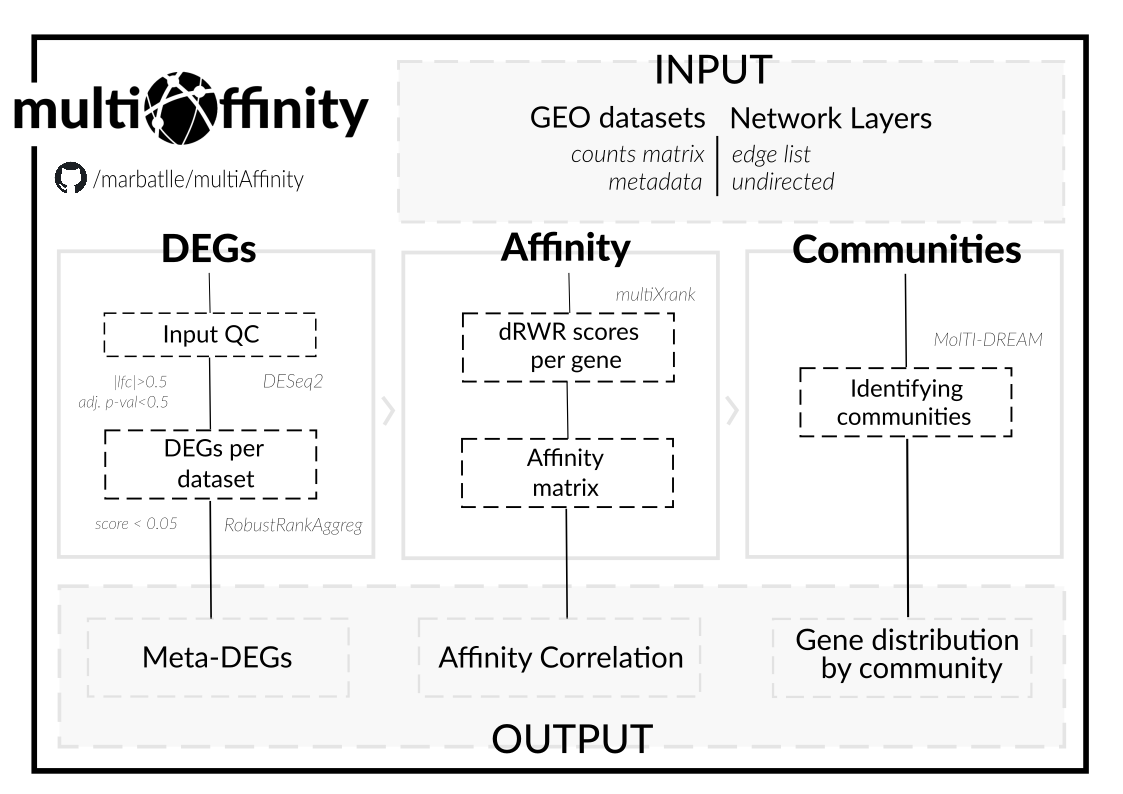
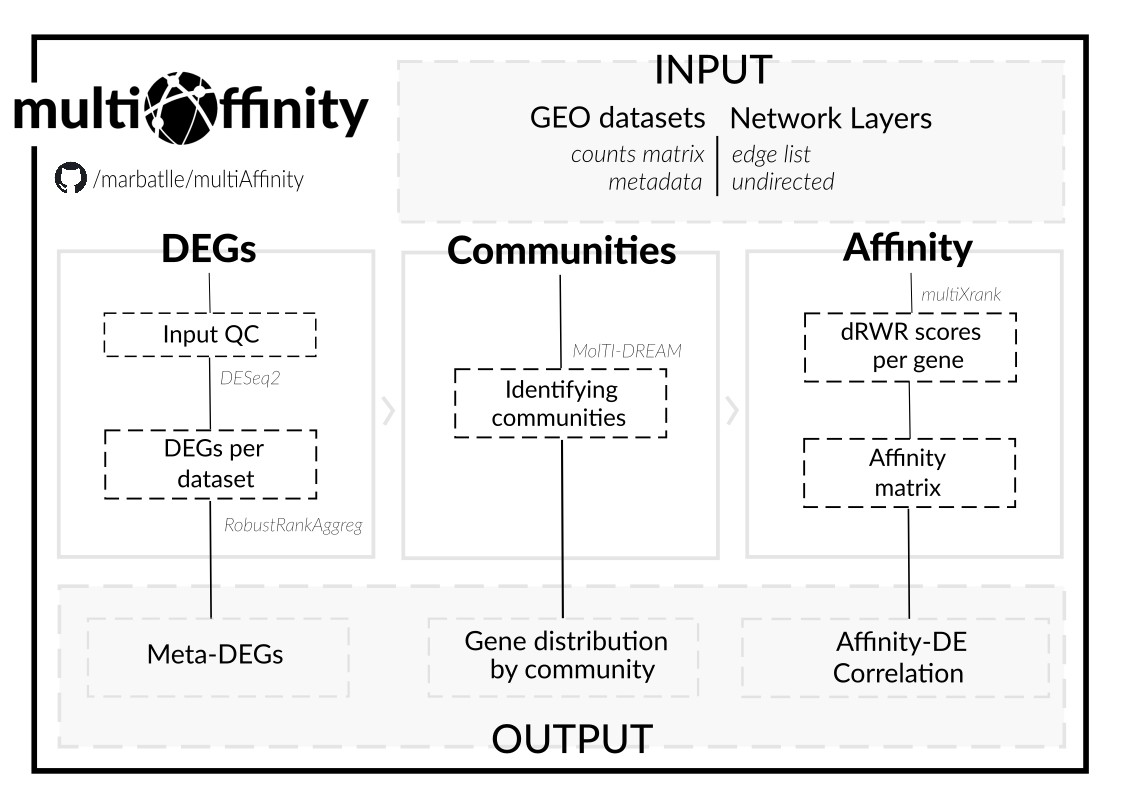
update output

diff --git a/tool/bin/Conclude/plot_participation.py b/tool/bin/Conclude/plot_participation.py
@@ -1,0 +1,61 @@
+import pandas as pd
+import seaborn as sns
+import numpy as np
+from scipy import stats
+import matplotlib.pyplot as plt
+
+def multimetrics(data):
+        max_value = data.nlargest(1,'Overlap Degree')['Overlap Degree'].values[0]
+        # plot
+        sns.set_context("talk", font_scale=1)
+        plt.figure(figsize=(10,7))
+        fig = sns.scatterplot(data=df, y='Overlap Degree', x='Participation Coefficient', size='Corr', sizes =(20,500), alpha = 0.5, color='#345488')
+        fig.legend(loc='upper left', frameon=False)
+        #define structure
+        fig.set_xlim([-0.05, 1.05])
+        fig.set_ylim([-1.5, max_value+max_value/10])
+        plt.ylabel(r'z($o_i$)')
+        plt.xlabel(r'$P_i$')
+        left, width = .16, .35
+        bottom, height = -1.5, max_value
+        right_limit = 1.11
+        center = left + width
+        right = left + width + width
+        top = height + max_value/4.8
+        mid_low = -0.7
+        mid_high = height/2 + 0.2
+        # define labels
+        fig.text(left, top, 'FOCUSED',
+                horizontalalignment='center',
+                verticalalignment='center',
+                rotation=25)
+        fig.text(center, top, 'MIXED',
+                horizontalalignment='center',
+                verticalalignment='center',
+                rotation=25)
+        fig.text(right, top, 'MULTIPLEX',
+                horizontalalignment='center',
+                verticalalignment='center',
+                rotation=25)
+        fig.text(right_limit, mid_high, 'HUBS',
+                horizontalalignment='center',
+                verticalalignment='center',
+                rotation=25)
+        fig.text(right_limit+0.01, mid_low, 'LEAVES',
+                horizontalalignment='center',
+                verticalalignment='center',
+                rotation=25)
+        # draw axis lines
+        plt.axvline(x=0.33, color = 'black', linewidth = 1, linestyle = 'dashed')
+        plt.axvline(x=0.66, color = 'black', linewidth = 1, linestyle = 'dashed')
+        plt.axhline(y=0, color = 'black', linewidth = 1, linestyle = 'dashed')
+        # export plot
+        fig.figure.savefig("output/Affinity/participation_plot.png")
+
+# import dataframe
+df = pd.read_csv('output/multiAffinity_report.csv', index_col=0)
+df['Overlap Degree'] = stats.zscore(df['Overlap Degree']) #transform to z score
+df = df.rename(columns={'DifExp-Aff Corr': 'Corr'})
+df.apply(pd.to_numeric)
+df['Corr'] = df['Corr'].abs()
+multimetrics(df)

diff --git a/tool/bin/Affinity/scripts/difussion_analysis.py b/tool/bin/Affinity/scripts/difussion_analysis.py
@@ -28,7 +28,7 @@ degs = pd.read_csv(degs_path, index_col=0, dtype={"metaDEGs": "string", "RRA Sco
 degs_names = degs.index.tolist()
 
 #Load rwr matrix
-mat_path = 'Affinity/output/dRWR_matrix.txt'
+mat_path = 'Affinity/output/RWR_matrix.txt'
 mat = pd.read_csv(mat_path, sep='\t', index_col=0)
 
 #Find gene matches 

diff --git a/tool/bin/Affinity/scripts/difussion_analysis_comm.py b/tool/bin/Affinity/scripts/difussion_analysis_comm.py
@@ -34,7 +34,7 @@ degs_names = degs.index.tolist()
 degs_names = list(set(degs_names).intersection(set(comm_genes)))
 
 #Load rwr matrix
-mat_path = 'Affinity/output/dRWR_matrix.txt'
+mat_path = 'Affinity/output/RWR_matrix.txt'
 mat = pd.read_csv(mat_path, sep='\t', index_col=0)
 
 #Find gene matches 

diff --git a/tool/bin/Affinity/scripts/create_matrix.py b/tool/bin/Affinity/scripts/create_matrix.py
@@ -53,4 +53,4 @@ matrix.index.name = None
 os.chdir(glob_dir)
 
 #matrix=matrix.set_index('ids')
-matrix.to_csv('Affinity/output/dRWR_matrix.txt', sep='\t')
+matrix.to_csv('Affinity/output/RWR_matrix.txt', sep='\t')

diff --git a/README.md b/README.md
@@ -1,44 +1,60 @@
 <img src=.img/multiAffinty-logo.png width=400>
 
 <br>
+
+## Study how gene desregulation propagates on a multilayer network
 <br>
 
-**Analyse how gene desregulation propagates on a network through the study of communities and affinity correlation.**
-
--------------------------------------------------------------------------------------------
 # Overview
 
+This is the framework of the complete workflow:
+<br>
 
-This is a schema of the complete workflow:
 ![Workflow](.img/multiAffinity_workflow.png)
 
--------------------------------------------------------------------------------------------
+<br>
+<br>
 
-# Quick start from Github Packages
+# Quick start 
+
+## from Docker
 
     - Pull image
         docker pull marbatlle/multiAffinity
         
     - Run tool
-        docker run -ti --rm -v $(pwd)/sample_data:/tool/sample_data marbatlle/multiaffinity  ./multiAffinity <ARGUMENTS>
+        docker run -ti --rm -v "$(pwd)/sample_data:/tool/sample_data" marbatlle/multiaffinity  multiAffinity <ARGUMENTS>
 
     - Arguments e.g.
-        -c sample_data/sample1_data.csv,sample_data/sample2_data.csv -m sample_data/sample1_metadata.csv,sample_data/sample2_metadata.csv -n sample_data/sample_layers.csv
+        -o output -c sample_data/sample1_data.csv,sample_data/sample2_data.csv -m sample_data/sample1_metadata.csv,sample_data/sample2_metadata.csv -n sample_data/sample_layers.csv
+## from Github Packages
+
+    - Pull image
+        docker pull marbatlle/multiAffinity
+        
+    - Run tool
+        docker run -ti --rm -v "$(pwd)/sample_data:/tool/sample_data" marbatlle/multiaffinity  multiAffinity <ARGUMENTS>
+
+    - Arguments e.g.
+        -o output -c sample_data/sample1_data.csv,sample_data/sample2_data.csv -m sample_data/sample1_metadata.csv,sample_data/sample2_metadata.csv -n sample_data/sample_layers.csv
     
--------------------------------------------------------------------------------------------
+<br>
+<br>
 
 # Usage
-### Input
-Before running the tool, the input files need to be selected and added to your input file. These consist of:
+<br>
 
-This tool is designed to work seamlessly with the output created by [GREIN](http://www.ilincs.org/apps/grein/?gse=), to be more specific, the raw counts matrix and metadata table are required. 
+## Input
+Before running the multiAffinity, the input files need to be curated to fit the tool's template. These consist of: **counts matrix**, **metadata** and **network layers**.
+
+Respect the first two file types, the is designed to work seamlessly with the output created by [GREIN](http://www.ilincs.org/apps/grein/?gse=). This is how:
 
 ![GREIN_tutorial](.img/tutorial_grein.png)
 
-If your dataset has not been already been processed by GREIN, please, request its processing and check its progress at the Processing Console. On the other hand, if you want to use datasets not available at GEO, make sure that your files format match these requirements:
+If your desired dataset/s have not been processed by GREIN, please, request its processing and check its progress at the Processing Console. On the other hand, if you want to use datasets not available at GEO, make sure that your files format match the following requirements:
 
-**> Metadata**
-* The files should be named following: *sampleid*_metadata.csv
+### -- Metadata
+* The files should be named following -- *sampleid*_metadata.csv
 * Make sure metadata labels contain the word Normal
 
 Sample file:
@@ -49,8 +65,8 @@ Sample file:
     GSM2177842,Tumor
     GSM2177843,Normal
 
-**> Counts Matrix**
-* The files should be named following: *sampleid*_data.csv
+### -- Counts Matrix
+* The files should be named following -- *sampleid*_data.csv
 * Make sure counts matrix includes gene symbols.
 * The series accession identifiers (GSM) should match the ones on the metadata file.
 
@@ -62,49 +78,55 @@ Sample file:
     ENSG00000000419,DPM1,321,228,56,157
     ENSG00000000457,SCYL3,236,176,118,131
 
-And remember, counts matrix and metadata have to share the same identifier.
+Remember, counts matrix and metadata have to share the same *sampleid* identifier.
 
-**> Network Layers**
+### -- Network Layers
 
 The last input required is a gene-gene network consisting of one or multiple layers in which nodes represent genes and edges represent different types of associations. Note that each layer should be added as a separate file.
 
 Sample file:
 
-    CNBP HNRNPAB
-    CNBP RPL10A
-    CNBP CENPN
-    CNBP RSL24D1
-    CNBP SMAP
-    CNBP FTSJ3
-    CNBP TRA2B
+    CNBP,HNRNPAB
+    CNBP,RPL10A
+    CNBP,CENPN
+    CNBP,RSL24D1
+    CNBP,SMAP
+    CNBP,FTSJ3
+    CNBP,TRA2B
+<br>
 
-### Run the script
+## Run the script
 
 Execute the script:
-usage: multiAffinity [-h] [-a approach] -o OUTPUT_PATH  -c COUNTS_PATH -m METADATA_PATH
-                     -n NETWORK_PATH [-b padj] [-d LFC] [-e control_id] [-f multiXrank_r]
-                     [-g multiXrank_selfloops] [-i Molti_modularity] [-j Molti_Louvain]
 
-arguments:
-    -h                          show this help message and exit
-    -a approach                 optional - define the approach as full or communities (default)
-    -o output_path              indicate output directory
-    -c counts_path              path to counts matrix, single or multiple (-c counts_path1,counts_path2)
-    -m metadata_path            path to metadata, single or multiple (-c metadata_path1,metadata_path2)
-    -n network_path             path to network, single or multiple (-c network_path1,network_path2)
-    -b padj                     optional - sets p-value adjusted for multiple testing used as cutoff in DESeq2 (default is 0.05)
-    -d LFC                      optional - defines log2 foldchange used as cutoff in DESeq2 (default value is 1)
-    -e control_id               define the metadata label for the control samples, default is Normal
-    -f multiXrank_r             optional - defines global restart probability for multiXrank, given by float between 0 and 1 (default is 0.5)
-    -g multiXrank_selfloops     optional - defines whether self loops are removed or not, takes values 0 or 1 (default is 0)
-    -i Molti_modularity         optional - sets Newman modularity resolution parameter on molTI-DREAM (default is 1)
-    -j Molti_Louvain            optional - switches to randomized Louvain on molTI-DREAM and set the number of randomizations (default is 0)
+    usage: multiAffinity [-h] [-a approach] -o OUTPUT_PATH  -c COUNTS_PATH 
+                        -m METADATA_PATH -n NETWORK_PATH [-b padj] [-d LFC] 
+                        [-e control_id] [-f multiXrank_r] [-g multiXrank_selfloops]
+                        [-i Molti_modularity] [-j Molti_Louvain]
 
-### Output Files
+    arguments:
+        -h                          show this help message and exit
+        -a approach                 opt - use all genes (full) or use community structure (communities)(default)
+        -o output_path              name output directory
+        -c counts_path              path to counts matrix, use sep ',' (-c counts_path1,counts_path2)
+        -m metadata_path            path to metadata, use sep ',' (-c metadata_path1,metadata_path2)
+        -n network_path             path to network, use sep ',' (-c network_path1,network_path2)
+        -b padj                     opt - sets significance value for DESeq2, RRA, Spearman's Corr (default is 0.05)
+        -d LFC                      opt - defines log2FC Cutoff value for DESeq2 (default value is 1)
+        -e control_id               define metadata label for the control samples (default is Normal)
+        -f multiXrank_r             opt - global restart probability for multiXrank, given by float between 0 and 1 (default is 0.5)
+        -g multiXrank_selfloops     opt - defines whether self loops are removed or not, takes values 0 or 1 (default is 0)
+        -i Molti_modularity         opt - sets Newman modularity resolution parameter on molTI-DREAM (default is 1)
+        -j Molti_Louvain            opt - switches to randomized Louvain on molTI-DREAM and sets num. of randomizations (default is 0)
+<br>
+
+## Output Files
 
 All output files obtained in this computational study are available in the folder /output. Since there is multiple output files, for convenience, we also provide a spreadsheet file including the key results retrieved from the output files.
 
-**Output Report** can be found at *multiAffinity_report.csv*
+**Output Report:** found at *multiAffinity_report.csv*
+
+!!UPDATE TABLE
 
 | metaDEGs | RRA Score | Affinity Corr | Communities |
 |----------|-----------|---------------|-------------|
@@ -119,73 +141,29 @@ All output files obtained in this computational study are available in the folde
 | SLC22A12 | 0.00555   | 0.07548       | 12-47       |
 | GNMT     | 0.00527   | 0.07031       | 537         |
 
+**Multilayer Metrics Plot:** found at *output/multilayer_metrics_plot.png*
+
+!!ADD PLOT
+
 #### Additional results folder
 
 **metaDEGs/**
 - *degs_report.txt*: displays the number of upregulated and downregulated DEGs obtained individually from each study.
-
-        sample1
-        num. of upregulated DEGs:  3094 
-        num. of downregulated DEGs: 1781
-        sample2
-        num. of upregulated DEGs:  1400 
-        num. of downregulated DEGs: 1197
-
 - *metaDEGs.txt*: describes all the obtained metaDEGs and the corresponding RRA Score.
-
-        Name,Score
-        REG3A,2.55102040816327e-05
-        SLITRK3,3.48964865519409e-05
-        SHISA6,4.09492025142811e-05
-        HS3ST4,6.53061224489795e-05
-        FGF14-IT1,7.6293497933928e-05
-        CST1,8.26530612244898e-05
-        PLSCR5,0.000110521061888034
-        LHX1,0.000146938775510204
-        FGF3,0.000172448979591837
-
 - *wasserstein.txt*: remarks every pair of studies that show a significant difference between their distributions.
-
-        Adj. p-val of the Wasserstein test shows a significant difference in the distributions between:
-        Sample1 and Sample2
 
 **Affinity**
 
 - *Affinity_Corr.txt*: presents the Spearman's correlation value and the corresponding p-value.
 
-        Genes,Corr,Adj. p-val
-        XDH,-0.06684784898829361,0.005615617381127997
-        PNLIPRP2,-0.050928801645525254,0.03495124365060305
-        CNDP1,0.07003043487726657,0.003712767455761538
-        HAO2,0.09297995096560957,0.00011521699255637543
-        CYP2C8,0.0667415844192762,0.005692142448837308
-        CYP3A4,0.0501046150267246,0.038009655106220744
-
 **Communities**
 
 - *communities.txt*: lays out the different communities defined by Molti-DREAM.
-
-        #ClustnSee analysis export
-        ClusterID:1||
-        CYP11B2
-        CYP11B1
-        CYP21A2
-        CH25H
-        SRD5A3
-
-        ClusterID:2||
-        ALDH1A2
-
 - *degs_communities.txt*: presents the metaDEGs obtained in the current study and the corresponding matches in the communities.
 
-        REG3A;
-        SLITRK3;
-        HS3ST4;211
-        FGF14-IT1;
-        CST1;1112
-
+<br>
 
 -------------------------------------------------------------------------
 
-
+<br>
 <img src=.img/logos-project.jpg width=500>
